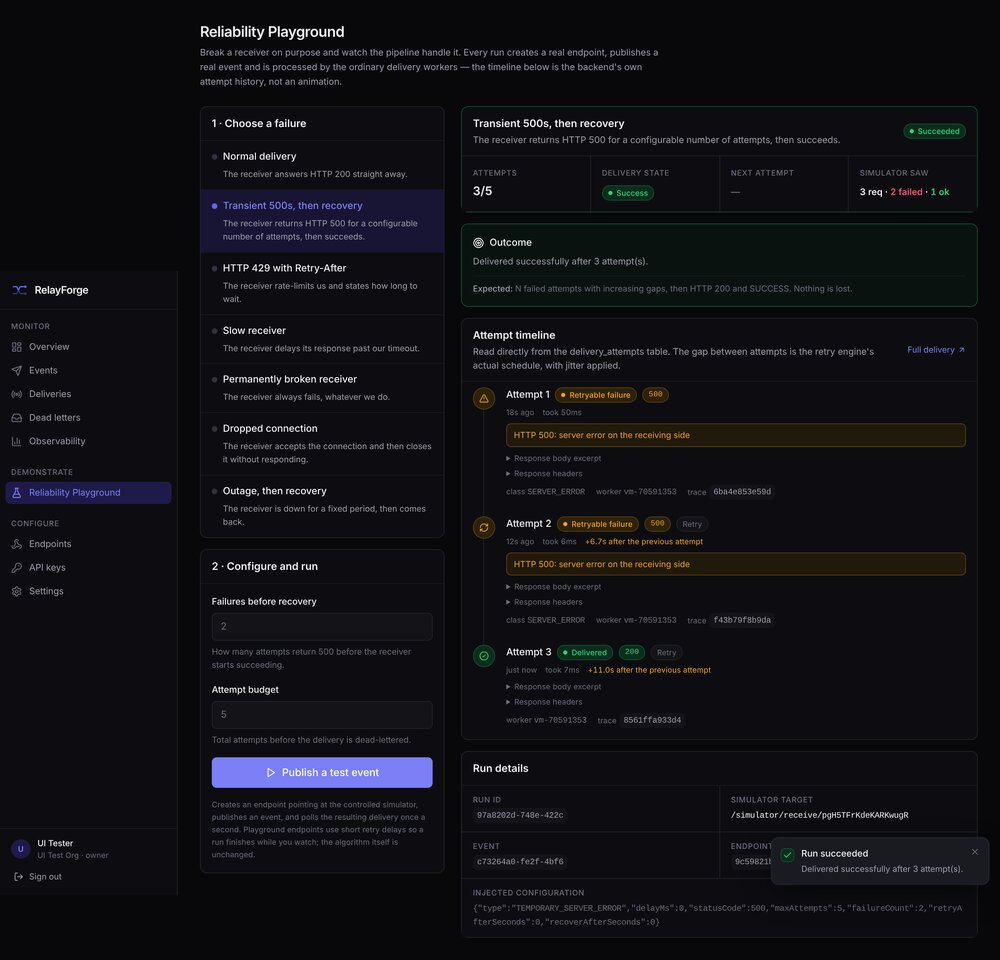
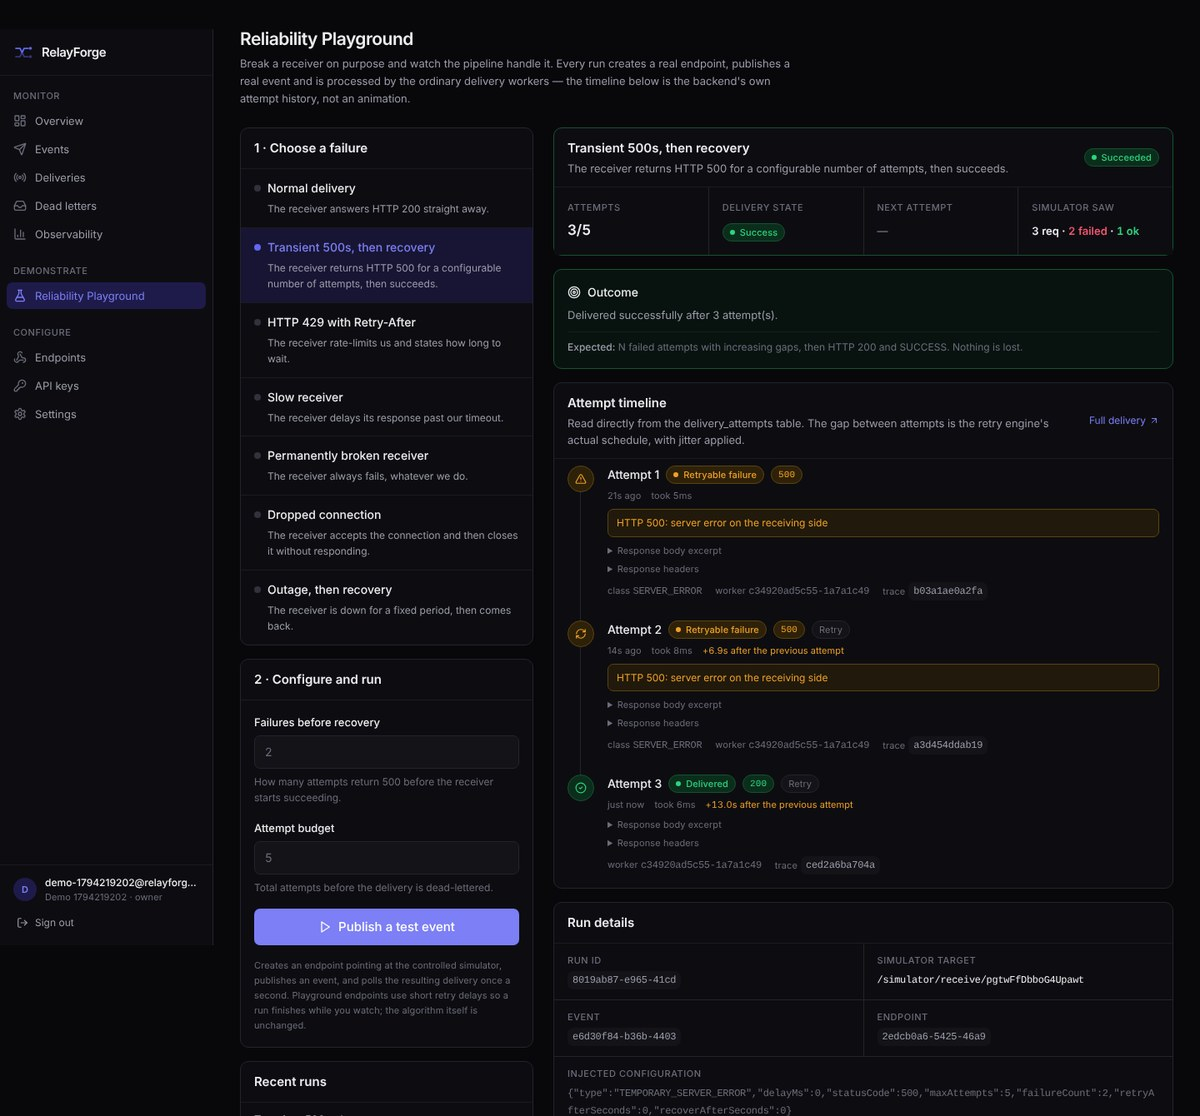
Correct the RelayForge test count and use self-captured screenshots
The stack was built and run end to end — PostgreSQL, Kafka, Redis,
Prometheus, Grafana, Tempo, the API, a worker, the simulator and the
dashboard — and the whole test suite executed against it. Two things
came out of that.

The test figure was wrong. The source documents say "213 tests: 180
unit, 33 integration, 21 end-to-end", but those three numbers sum to
234; 213 is only the first two. Verified by running them: 180 unit
pass, 33 Testcontainers integration pass, 21 Playwright end-to-end pass
(1 skipped). The band, the contribution paragraph, About and the
recognition entry now say 234 and give the split.

Two screenshots are replaced with captures from that run, because they
show more than the originals did:

- The playground run is now a completed one — 500, 500, 200 with gaps
  of +6.9s then +13.0s, beside the simulator's own counters reading
  3 requests, 2 failed, 1 ok.
- The delivery detail is now the dead-lettered-then-replayed delivery:
  three 503s and a 200 on the replay, with the failures still in the
  history. It makes the "replay appends" decision visible instead of
  only asserting it.

Captions updated to the figures actually observed. Build, lint and
typecheck pass; both images load and the page has no console errors.

Claude-Session: https://claude.ai/code/session_01BjtGGv29xUeTZv7p4DkBQM

diff --git a/src/lib/projects.ts b/src/lib/projects.ts
@@ -69,9 +69,9 @@ export const projects: Project[] = [
     solution:
       "PostgreSQL is the source of truth for what must be delivered; Kafka only distributes the work of delivering it, and never decides whether a delivery still needs doing. The event, its deliveries and the outbox rows commit in one transaction, so \"accepted\" and \"queued for relay\" are the same atomic fact. An outbox publisher claims rows with FOR UPDATE SKIP LOCKED and waits for the broker's acknowledgement. Workers take a renewable lease, sign the payload with HMAC-SHA256, and send it; the response is classified, and a retryable failure is rescheduled in the database with exponential backoff and symmetric jitter. When the attempt budget is spent the delivery becomes a dead letter that can be replayed — by appending attempts, never by resetting history.",
     contribution:
-      "Solo build, designed and implemented end to end: the Spring Boot backend and its three runtime roles, the outbox and retry engines, the lease reconciler, the security layer (HMAC signing, AES-GCM secret storage, DNS-pinned SSRF policy, refresh-token rotation), the Next.js dashboard with eleven screens and the Reliability Playground, and the Docker, Prometheus, Grafana and OpenTelemetry infrastructure. 213 automated tests pass from a clean build; thirteen real defects were found by running the system rather than reading it.",
+      "Solo build, designed and implemented end to end: the Spring Boot backend and its three runtime roles, the outbox and retry engines, the lease reconciler, the security layer (HMAC signing, AES-GCM secret storage, DNS-pinned SSRF policy, refresh-token rotation), the Next.js dashboard with eleven screens and the Reliability Playground, and the Docker, Prometheus, Grafana and OpenTelemetry infrastructure. 234 automated tests pass from a clean build — 180 unit, 33 Testcontainers integration and 21 Playwright end-to-end — and thirteen real defects were found by running the system rather than reading it.",
     metrics: [
-      { label: "Automated tests", value: "213", note: "180 unit · 33 Testcontainers integration · 21 Playwright E2E" },
+      { label: "Automated tests, all green", value: "234", note: "180 unit · 33 Testcontainers integration · 21 Playwright end-to-end" },
       { label: "Tracked files", value: "262", note: "Backend, dashboard, simulator, infra, docs" },
       { label: "Grafana panels", value: "19", note: "Plus Prometheus alerting rules" },
       { label: "Fault scenarios", value: "7", note: "Injectable from the dashboard, against the real pipeline" },
@@ -153,19 +153,19 @@ export const projects: Project[] = [
     shots: [
       {
         src: "/work/relayforge/playground-run.jpg",
-        width: 1000,
-        height: 960,
+        width: 1200,
+        height: 1116,
         alt: "A completed Reliability Playground run showing attempts returning 500, 500 then 200 with widening gaps",
         caption:
-          "A real run: HTTP 500, 500, 200, with the gap between attempts roughly doubling. The simulator's own counters (3 requests, 2 failed, 1 ok) agree with RelayForge's recorded attempt history, so the demonstration corroborates itself.",
+          "A real run of the \u201ctransient 500s, then recovery\u201d scenario: HTTP 500, 500, 200, with gaps of +6.9s then +13.0s. The simulator's own counters — 3 requests, 2 failed, 1 ok — agree with RelayForge's recorded attempt history, so the demonstration corroborates itself.",
       },
       {
         src: "/work/relayforge/delivery-detail.jpg",
-        width: 1000,
-        height: 738,
-        alt: "Delivery detail screen with a vertical timeline of individual delivery attempts",
+        width: 1200,
+        height: 1156,
+        alt: "Delivery detail screen with a timeline of four attempts: three 503 failures and a successful replay",
         caption:
-          "Every attempt is kept: status, classification, timing and response. A failed delivery is something you inspect, not something you infer.",
+          "The same delivery after it dead-lettered and was replayed: three 503s, then a 200 on the replay. The failures are still there. Replay appended attempt four rather than erasing the evidence of why the delivery failed in the first place.",
       },
       {
         src: "/work/relayforge/endpoints.jpg",

diff --git a/src/lib/profile.ts b/src/lib/profile.ts
@@ -187,9 +187,9 @@ export const timeline: TimelineEntry[] = [
 
 export const achievements = [
   {
-    title: "RelayForge — 213 automated tests, green from a clean build",
+    title: "RelayForge — 234 automated tests, green from a clean build",
     detail:
-      "180 unit, 33 Testcontainers integration and 21 Playwright end-to-end tests over a webhook delivery platform. Thirteen real defects were found by running the system rather than reading it.",
+      "180 unit, 33 Testcontainers integration and 21 Playwright end-to-end tests over a multi-tenant webhook delivery platform. Thirteen real defects were found by running the system rather than reading it.",
   },
   {
     title: "AI Nexus Hackathon — Finalist",

diff --git a/src/components/sections/About.tsx b/src/components/sections/About.tsx
@@ -36,7 +36,7 @@ export default function About() {
               with typed contracts at every boundary. The largest of those is{" "}
               <span className="text-fg">RelayForge</span> — a multi-tenant webhook
               delivery platform on Java, Spring Boot, PostgreSQL, Kafka and Redis,
-              with 213 automated tests and its own reliability playground that
+              with 234 automated tests and its own reliability playground that
               injects real failures into the real pipeline.
             </p>
             <p className="mt-6 max-w-[58ch] text-[length:var(--text-body-lg)] leading-[1.68] text-fg-muted">
